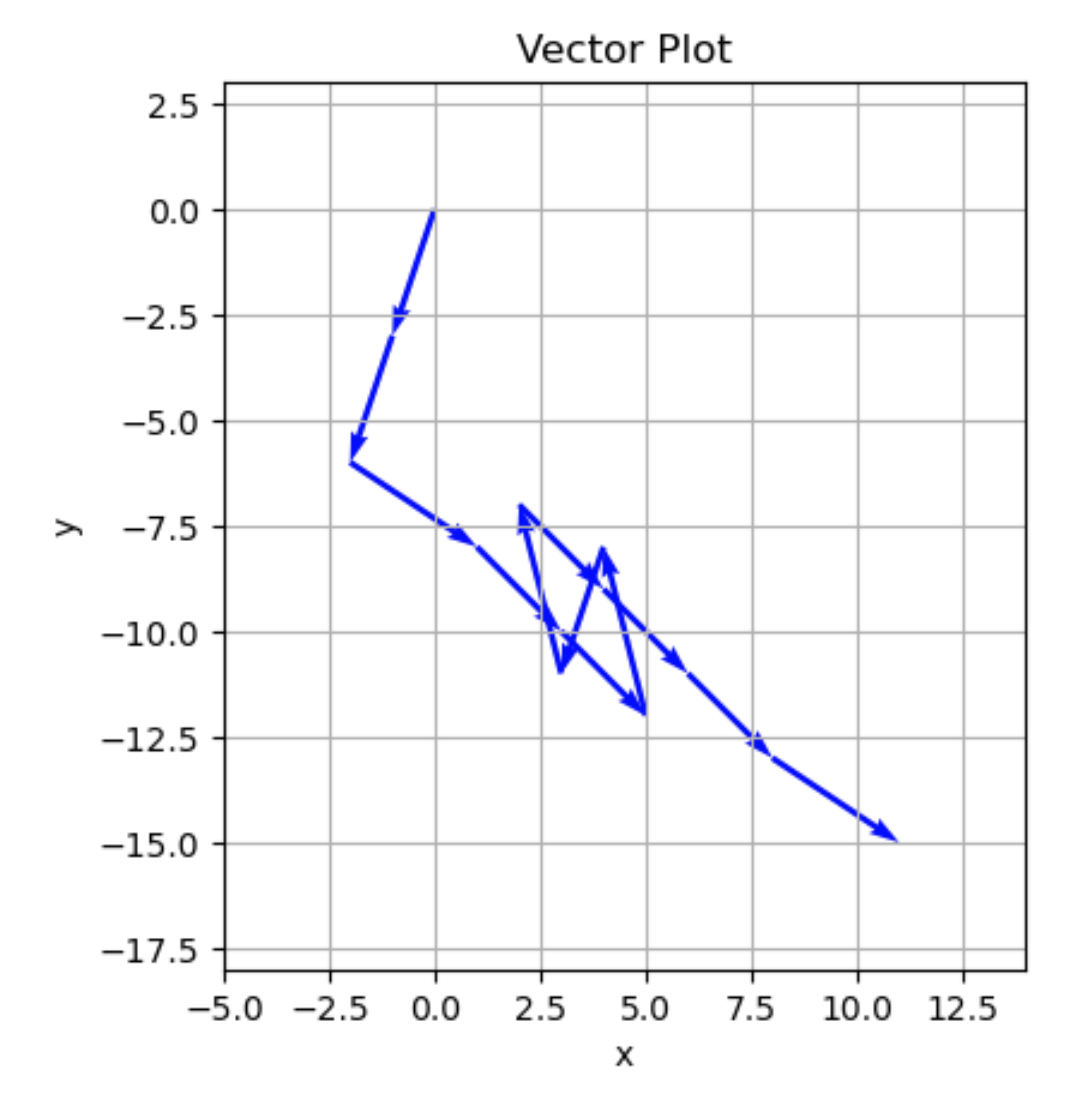
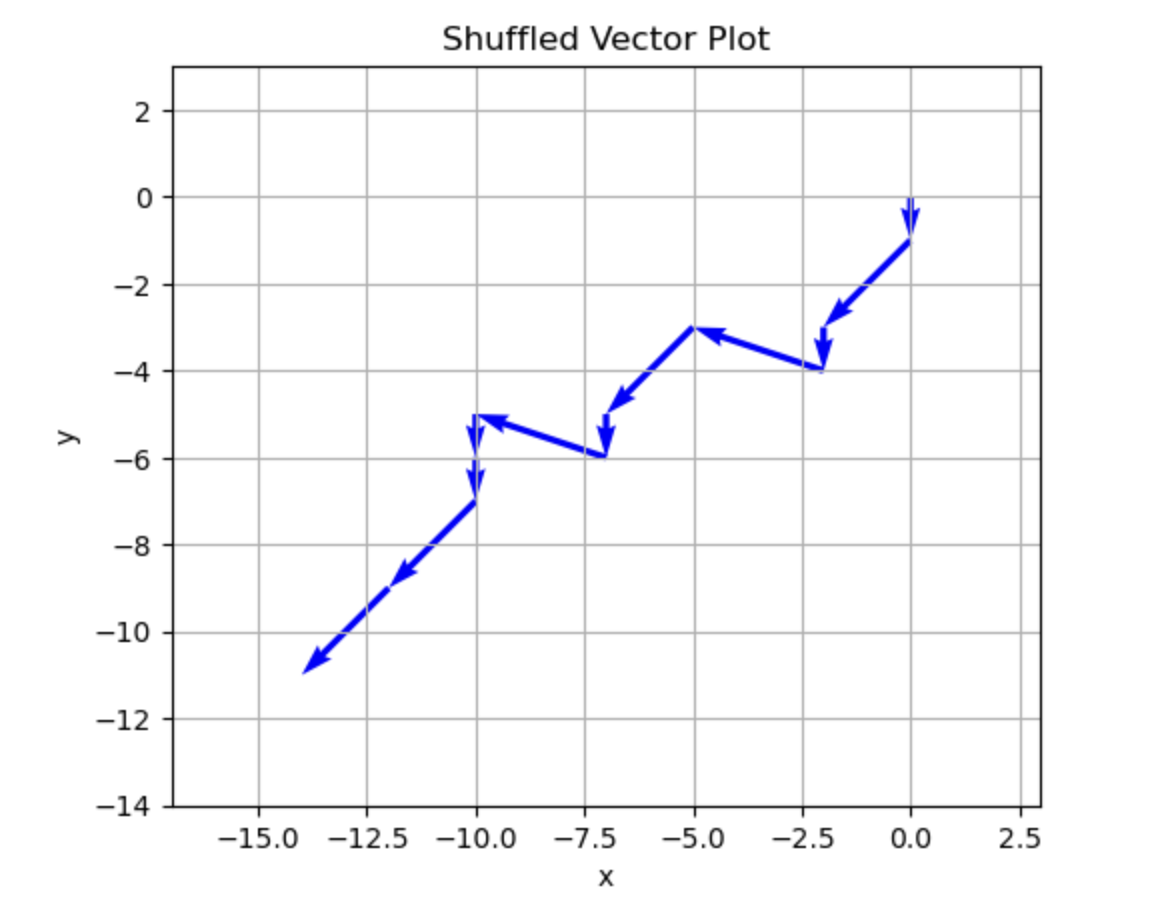
Vector Math Legibility Update / Added Notes

Changed region(s): [[0.0913, 0.0308, 0.9742, 0.9846], [0.0304, 0.4615, 0.0913, 0.4923]]

diff --git a/README.md b/README.md
@@ -24,36 +24,52 @@ Each notebook is meant to serve as a standalone explanation of a concept I find 
 
 ## Vector Math Visualization
 
-This notebook explores **vector addition**, **subtraction**, and **scalar multiplication** using a plotting approach in Python with `matplotlib`. It includes an interactive section where vectors are appended to a list and visualized using a custom function.
+This notebook explores **vector addition**, **subtraction**, and **scalar multiplication** using a plotting approach in Python with `matplotlib`. It includes an interactive section where you can:
 
-In addition to scalar multiplication and directional plotting, the notebook demonstrates the **commutative property** of vector addition by shuffling the order of vectors and showing that the final position remains unchanged.
+* Manually input vector components
+* Choose a scalar multiplier
+* Toggle between **addition** and **subtraction** mode
+* Visualize chained vector movement from origin
+* Shuffle vectors to test the **commutative property**
+* Track each run in a persistent history log
 
-The plot shows how vectors:
+Each plot displays cumulative vector movement using tip-to-tail logic. The final endpoint is marked and printed, showing the total displacement.
 
-* Chain tip-to-tail
-* Change length with scaling
-* Reverse direction with subtraction or negative scalars
-* Accumulate position
+### Sample Output
 
-**Original Order Plot:**
+```console
+ VECTOR ADDITION HISTORY
+Addition #1 - Ordered Vector Addition (Mode: subtract, Repeats: 4)
+                Each vector added: [2, 2]
+Addition #2 - Ordered Vector Addition (Mode: add, Repeats: 2)
+                Each vector added: [-3, 1]
+Addition #3 - Ordered Vector Addition (Mode: add, Repeats: 5)
+                Each vector added: [0, -1]
+
+ FINAL VECTOR POSITION IS
+The net deplacement vector position is [-14, -11]
+
+ SHUFFLED VECTOR ADDITION (COMMUTATIVITY CHECK)
+The vectors are the same but appear in a random order.
+Notice that the endpoint remains the same, demonstrating commutativity.
+
+ FINAL VECTOR POSITION IS
+The net deplacement vector position is [-14, -11]
+```
+
+### Original Order Plot:
 
 ![Ordered Vector Plot](assets/vector_plot_example.png)
 
-**Shuffled Order Plot (Commutativity Check):**
+### Shuffled Order Plot (Commutativity Check):
 
 ![Shuffled Vector Plot](assets/vector_plot_commutative.png)
 
-Notebook location:
+### Notebook Location
 
 ```bash
 Subjects/vector_math/vector_math.ipynb
 ```
-
-Key additions in this version:
-
-* A function to build and visualize vectors step-by-step
-* Scalar multiplication applied through repetition
-* Comparison of ordered vs. shuffled vectors to confirm commutativity
 
 ---
 
